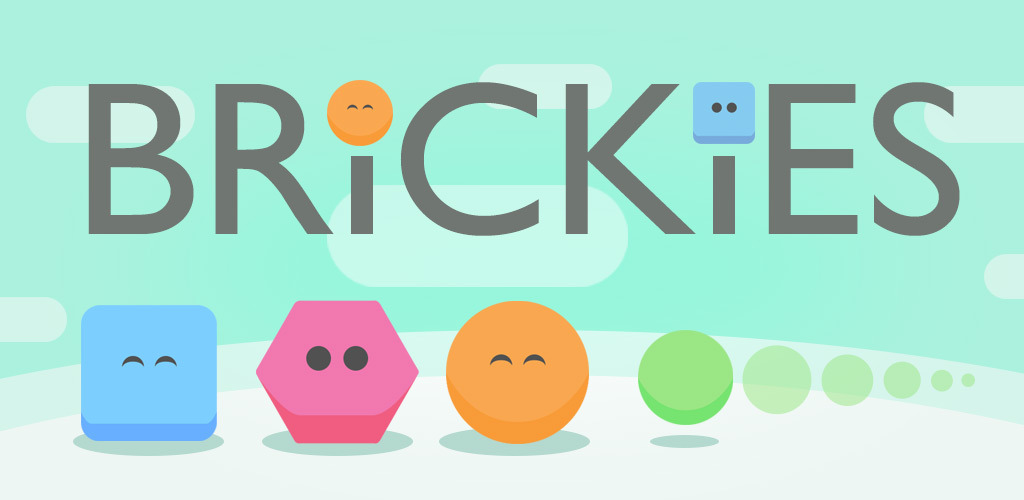
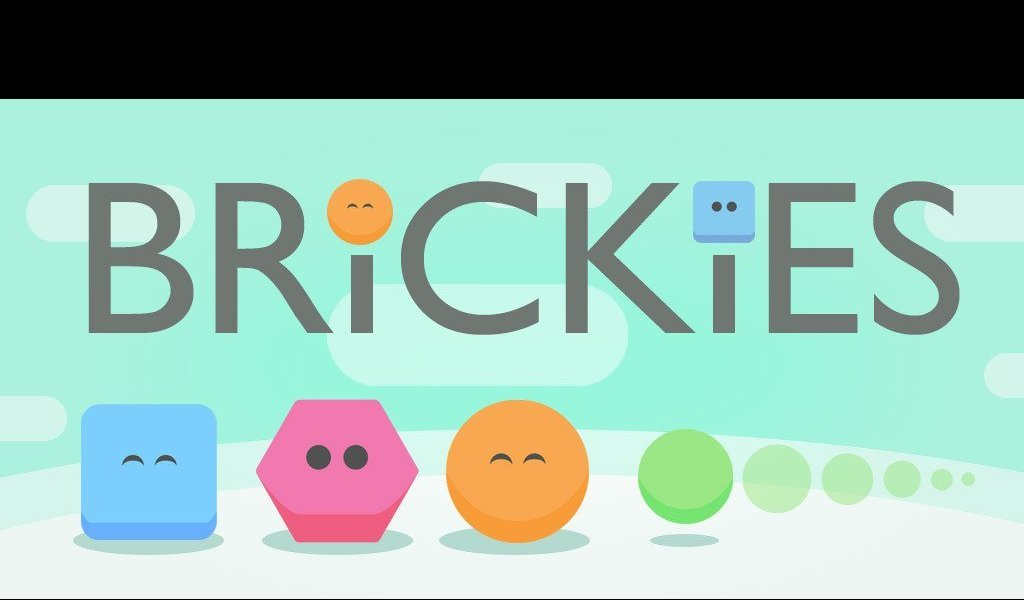
pages transitions added

diff --git a/js/selectLevel.js b/js/selectLevel.js
@@ -4,63 +4,52 @@ function selectLevel()
 {
 ctx.clearRect(0, 0, canvas.width, canvas.height);
 	console.log("hereeeeeee2");
-var  levelImage = new Image();
-levelImage.onload = function(){
-                ctx.drawImage(levelImage, 0, 0);
-	}
-levelImage.src='img/c2.jpg';
-ctx.drawImage(levelImage,0,0);
-
-
 
 var  step1 = new Image();
 step1.onload = function(){
-                ctx.drawImage(step1, 50, 363);
+                ctx.drawImage(step1, 0, 0);
 	}
-step1.src='img/step1.jpg';
-ctx.drawImage(step1,50,363);
+step1.src='img/bglevels.jpg';
+ctx.drawImage(step1,0,0);
 
-var  step1 = new Image();
-step1.onload = function(){
-                ctx.drawImage(step1, 200, 363);
-	}
-step1.src='img/step1.jpg';
-ctx.drawImage(step1,200,363);
+ var levelX=0,levelY=0;
+ var levelWidth=134;
+ var levelHeight=109;
+canvas.addEventListener("click", levelClick);              
+
+function levelClick(mouseEvent) {
+    levelX=mouseEvent.clientX-this.offsetLeft;
+    levelY=mouseEvent.clientY-this.offsetTop;
+	                        
+if (levelX> 148 && levelX < 148+levelWidth) {
+                if (levelY > 460 && levelY < 460+levelHeight) {
+        canvas.removeEventListener("click", levelClick);              
+        draw();
+	      }
+            }
+        
+if (levelX> 283 && levelX < 283+levelWidth) {
+                if (levelY > 351 && levelY < 351+levelHeight) {
+        canvas.removeEventListener("click", levelClick);              
+        drawlevel2();
+	      }
+            }
+if (levelX> 419 && levelX < 419+levelWidth) {
+                if (levelY > 242 && levelY < 242+levelHeight) {
+        canvas.removeEventListener("click", levelClick);              
+        drawlevel3();
+	      }
+            }
+
+if (levelX> 551 && levelX < 551+levelWidth) {
+                if (levelY > 134 && levelY < 134+levelHeight) {
+        canvas.removeEventListener("click", levelClick);              
+        drawlevel4();
+	      }
+            }
 
 
-
-/*var  step2 = new Image();
-step2.onload = function(){
-                ctx.drawImage(step2, 200, 218);
-	}
-step2.src='img/step2.jpg';
-ctx.drawImage(step2,200,218);*/
-
-
-var  step1 = new Image();
-step1.onload = function(){
-                ctx.drawImage(step1, 350, 363);
-	}
-step1.src='img/step1.jpg';
-ctx.drawImage(step1,350,363);
-
-
-
-/*var  step2 = new Image();
-step2.onload = function(){
-                ctx.drawImage(step2, 350, 218);
-	}
-step2.src='img/step2.jpg';
-ctx.drawImage(step2,250,218);*/
-
-
-var  step1 = new Image();
-step1.onload = function(){
-                ctx.drawImage(step1, 500, 363);
-	}
-step1.src='img/step1.jpg';
-ctx.drawImage(step1,500,363);
-
+           }
 
 }
 selectLevel();

diff --git a/js/selectCharacter.js b/js/selectCharacter.js
@@ -10,6 +10,7 @@ console.log(ctx);
     var arrowHeight=48;
     var back = new Image();
     var go = new Image();
+    var character = new Image();
     back.onload = function(){
                 ctx.drawImage(back, 0, 0);
 	}
@@ -17,12 +18,16 @@ console.log(ctx);
     ctx.drawImage(back, 0, 0);
 
     go.onload = function(){
-                ctx.drawImage(go, 972, 452);
+                ctx.drawImage(go, 972, 552);
 	}
     go.src = 'img/go.png'
-    ctx.drawImage(go,972,452);
+    ctx.drawImage(go,972,552);
 
-
+    character.onload = function(){
+                ctx.drawImage(character, 0, 100);
+	}
+    character.src = 'img/characters.png'
+    ctx.drawImage(character, 0, 100);
    
     var X=0; var Y=0;
 canvas.addEventListener("click", arrowClick);              
@@ -48,7 +53,7 @@ if (X> 0 && X < arrowWidth) {
             }
 
 if (X> 972 && X < 972+arrowWidth) {
-                if (Y > 452 && Y < 452+arrowHeight) {
+                if (Y > 552 && Y < 552+arrowHeight) {
                    
 	console.log("hereeeeeee");
         canvas.removeEventListener("click", arrowClick);              

diff --git a/activity_main.html b/activity_main.html
@@ -4,14 +4,16 @@
     <meta name="viewport" content="width=device-width, initial-scale=1.0"/>
 </head>
 <body >
-<center><canvas id="myCanvas" width="1020" height="500" style="border:1px solid #d3d3d3"  >
+<center><canvas id="myCanvas" width="1020" height="600" style="border:1px solid #d3d3d3"  >
 </canvas></center>
 
-<!--script src="js/Objects/brick.js"></script>
+<script src="js/Objects/brick.js"></script>
 <script src="js/Objects/ball.js"></script>
 <script src="js/Objects/paddle.js"></script>
-<script src="js/Objects/gameProgress.js"></script-->
-
+<script src="js/Objects/gameProgress.js"></script>
+<script src="js/level4.js"></script>
+<script src="js/level3.js"></script>
+<script src="js/level2.js"></script>
 <script src="js/level1.js"></script>
 
 <script src="js/selectLevel.js"></script>

diff --git a/js/level2.js b/js/level2.js
@@ -53,7 +53,8 @@ canvas.addEventListener('click',function () {
     flagToStart=1;
 
 },false)
-function draw(){
+function drawlevel2(){
+    //console.log("2"); 
     ctx.clearRect(0, 0, canvas.width, canvas.height);
     //ctx.drawImage(image,0, 0); 
     paddle1.drawPaddle();
@@ -110,7 +111,7 @@ function draw(){
         }
             
     
- requestAnimationFrame(draw);
+ requestAnimationFrame(drawlevel2);
 }
-draw();
+drawlevel2();
 //setInterval(draw, 10);

diff --git a/js/level4.js b/js/level4.js
@@ -55,7 +55,7 @@ canvas.addEventListener('click',function () {
     flagToStart=1;
 
 },false)
-function draw(){
+function drawlevel4(){
     ctx.clearRect(0, 0, canvas.width, canvas.height);
     //ctx.drawImage(image,0, 0); 
     paddle1.drawPaddle();
@@ -106,9 +106,9 @@ function draw(){
         }
             
     
- requestAnimationFrame(draw);
+ requestAnimationFrame(drawlevel4);
 }
-draw();
+drawlevel4();
 //setInterval(draw, 10);
 
 

diff --git a/js/MainActivity.js b/js/MainActivity.js
@@ -8,7 +8,7 @@ timerId = 0;
     welcomeImg.onload = function(){
                 ctx.drawImage(welcomeImg, 0, 0);
 	}
-    welcomeImg.src='img/main.jpg';
+    welcomeImg.src='img/main3.png';
     ctx.drawImage(welcomeImg, 0, 0);
     canvas.addEventListener("click",displayMenu);
 }
